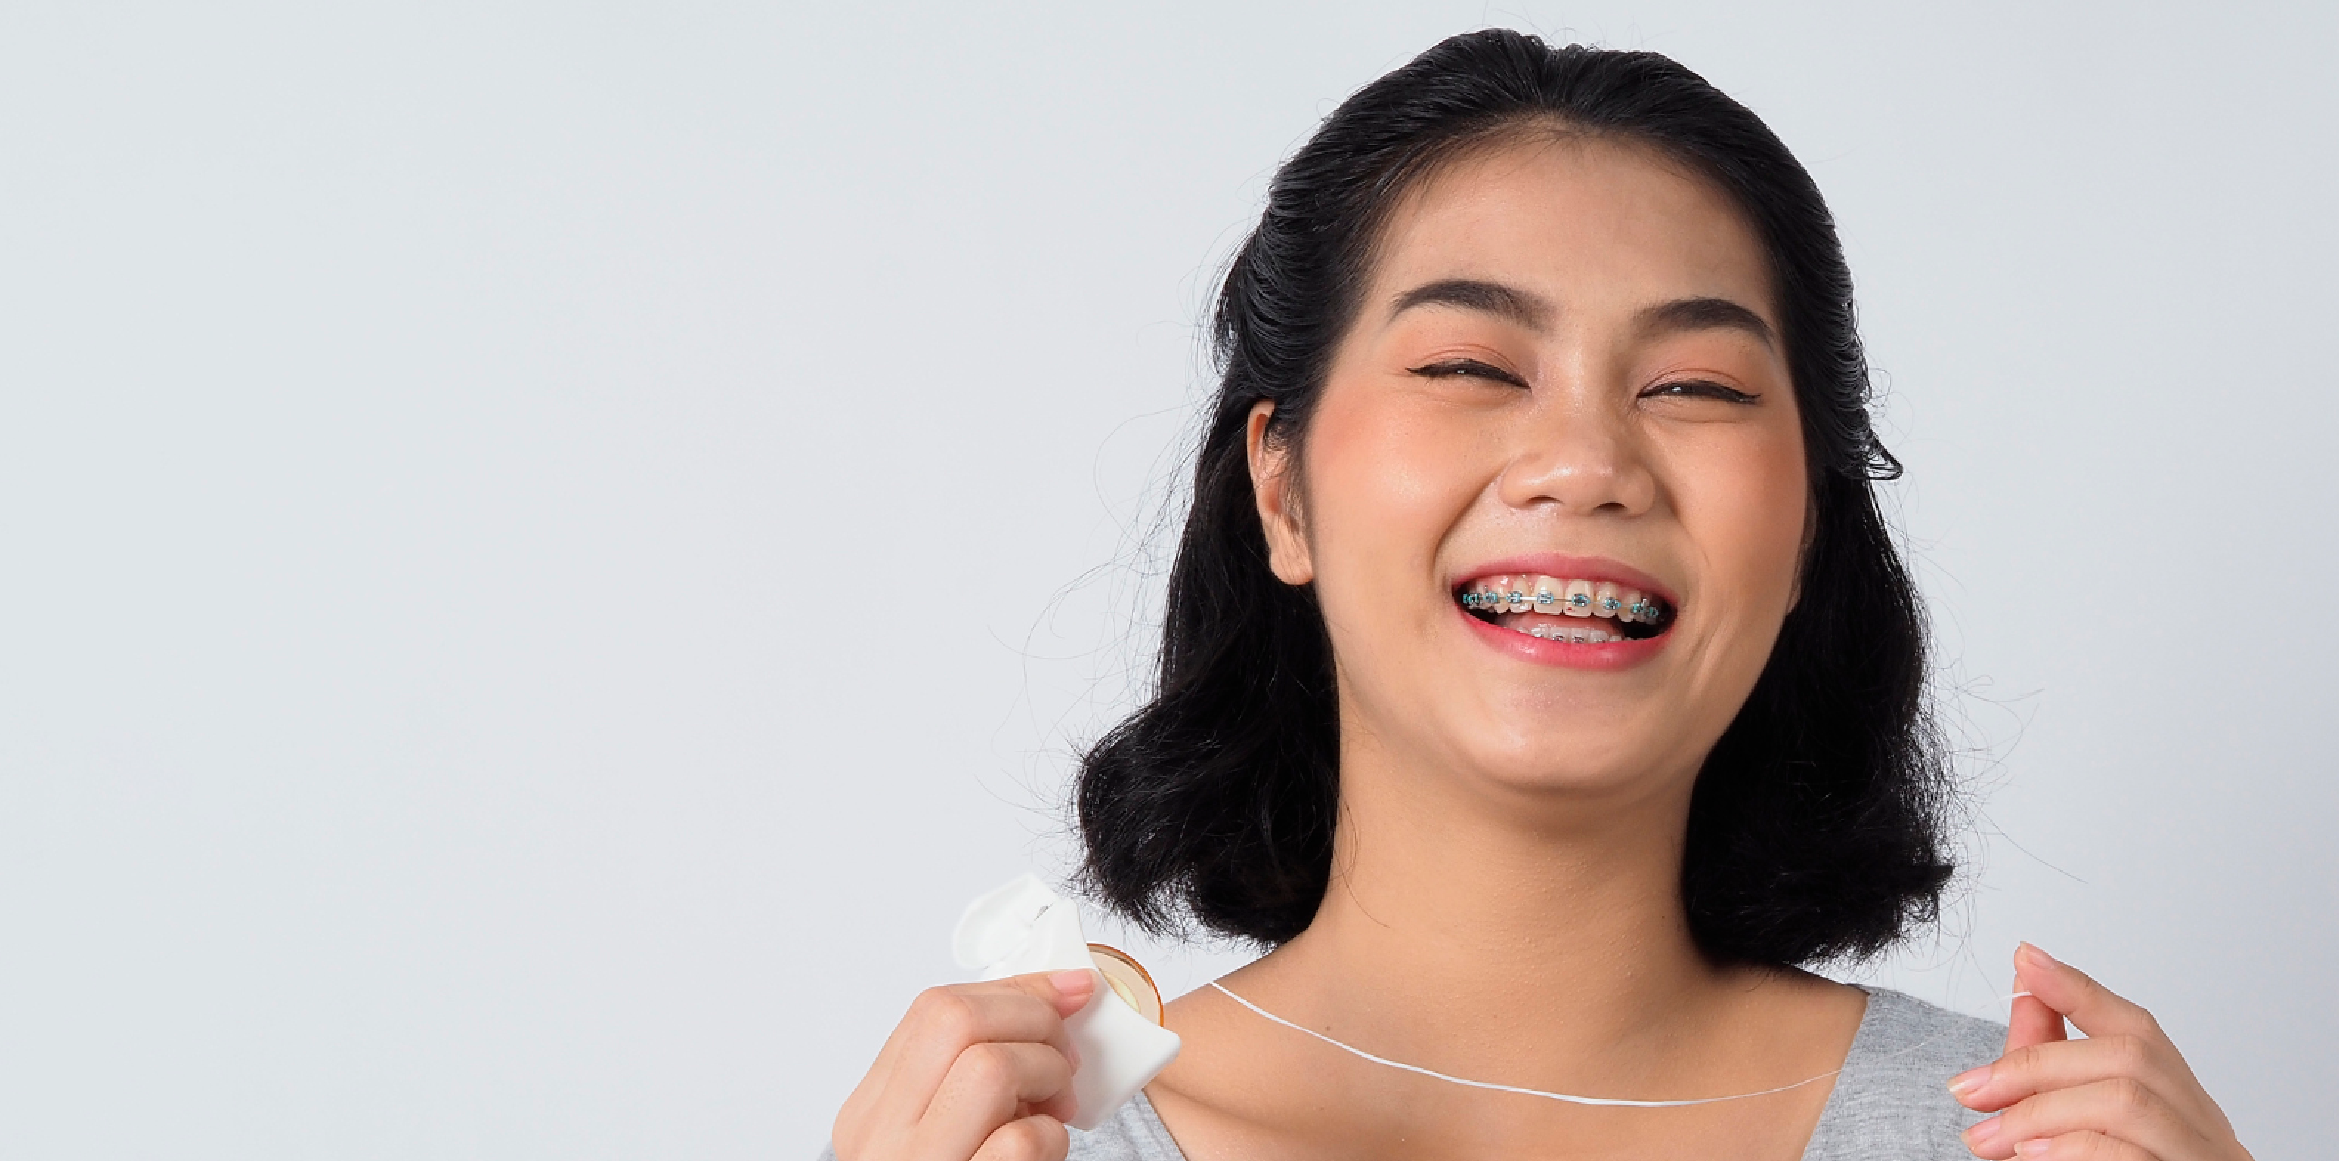
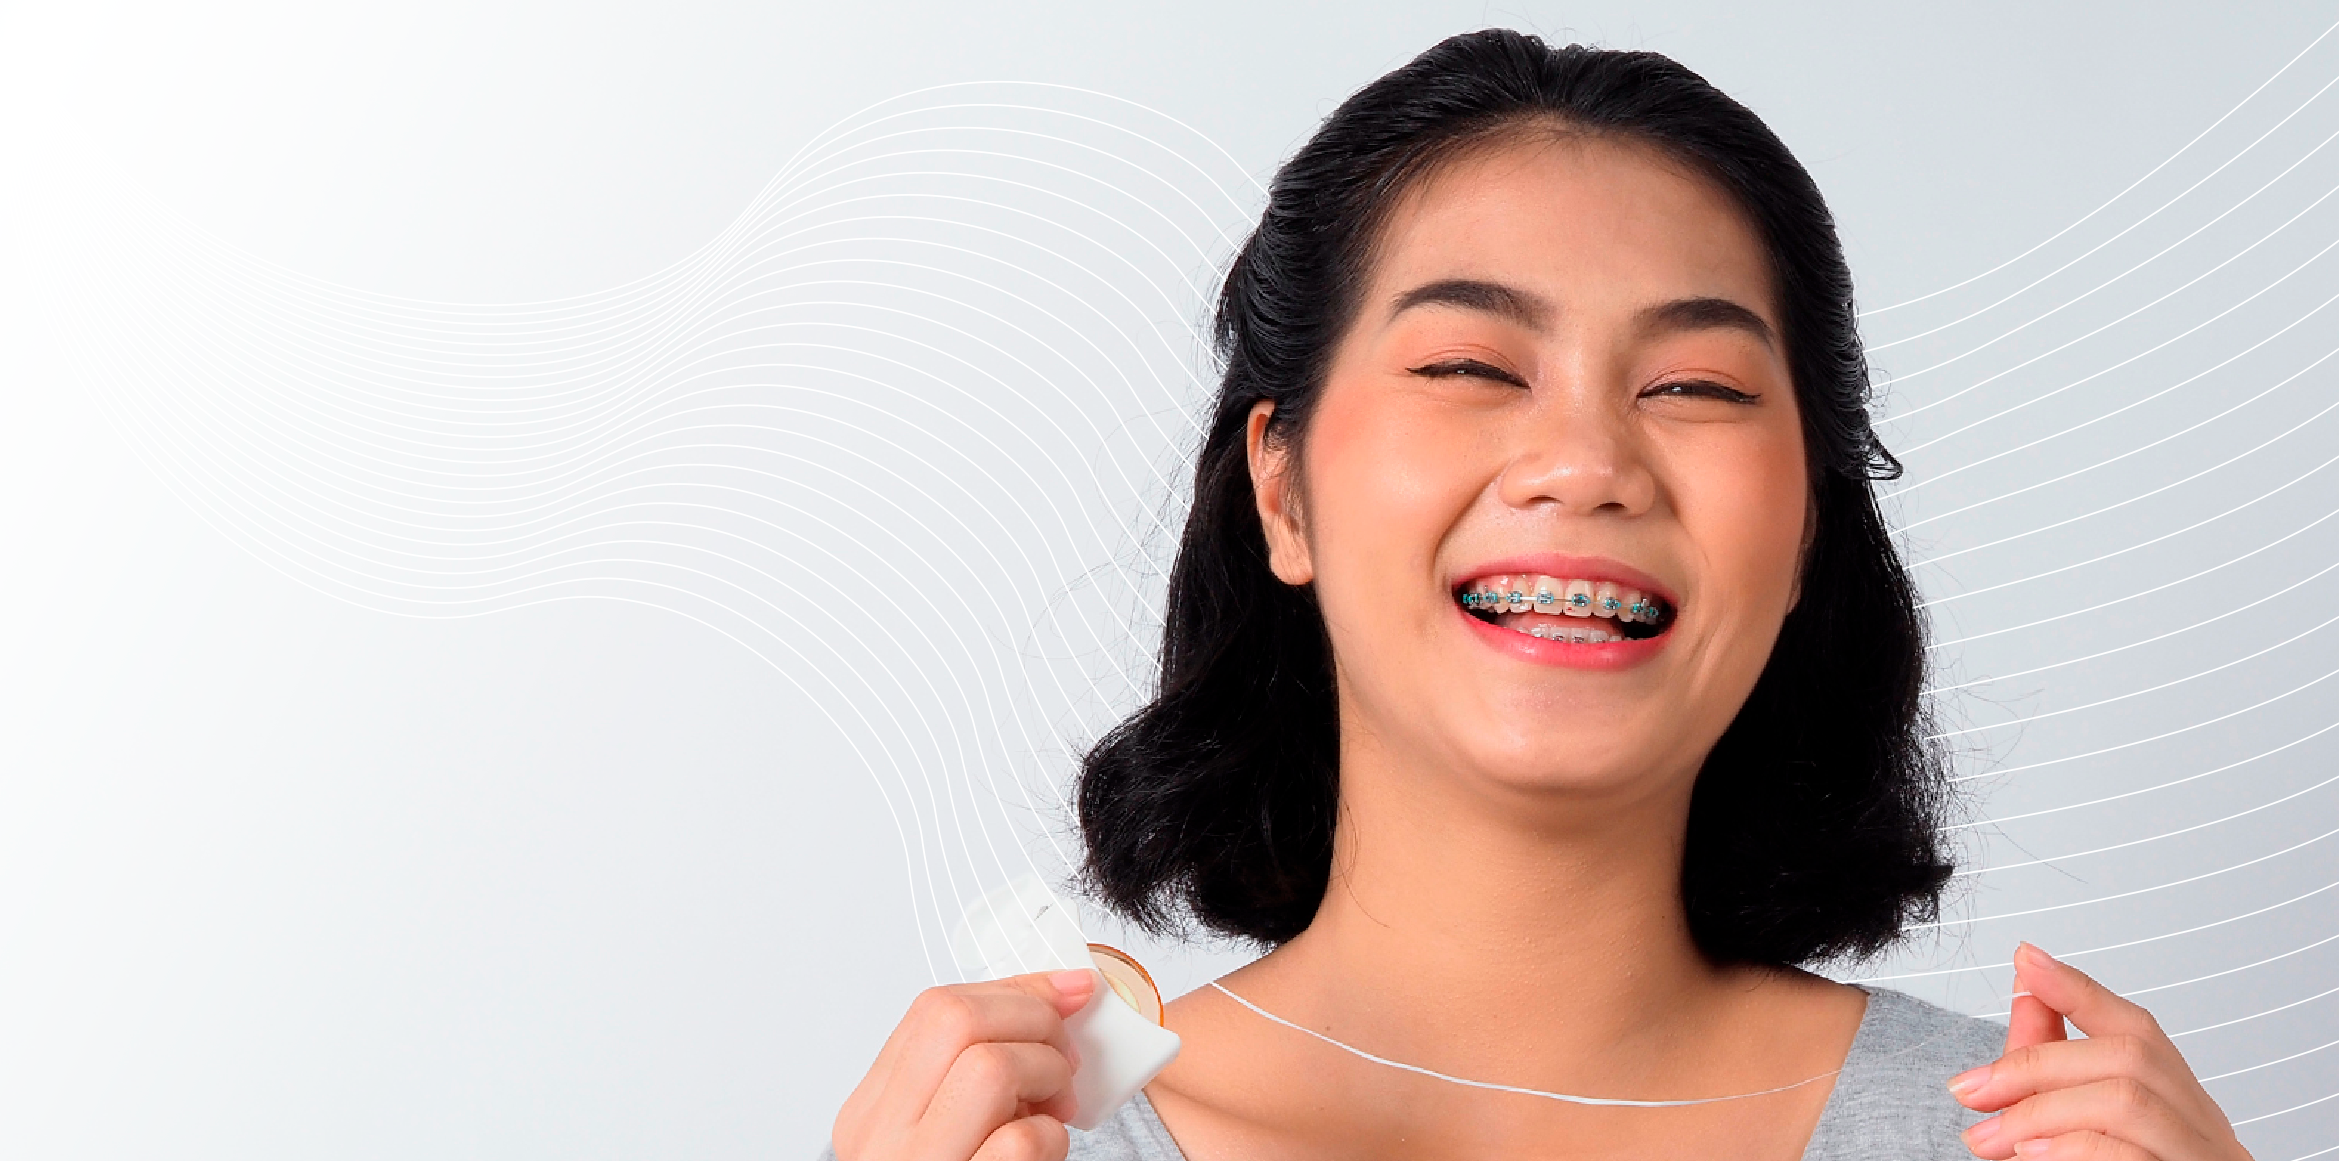
atualizacao

diff --git a/src/app/globals.css b/src/app/globals.css
@@ -5,15 +5,17 @@
 *{
   font-family:BreeGRK-Regular, Bree GRK;
 }
-.background{
-  position: absolute;
-  z-index: -1;
-  width: 100%;
-  height: auto;
-  margin-top: 50px;
+body{
+  background-image: url('/img_background.png');
+  background-repeat: no-repeat;
+  background-size: 130%;
+  
+  
 }
 
+
 .container_head{
+  
   background-image: url("/svg_onda.svg");
   background-repeat: no-repeat;
   background-size: cover;
@@ -520,35 +522,33 @@
 
 
 @media (max-width:440px){
- 
-  .background{
-    
-    position: absolute;
-    z-index: -1;
-    max-width: 480px;
-    height:auto;
-    margin-top: 1rem;
+
+  body{
+    background-image: url('/img_background.png');
+    background-repeat: no-repeat;
+    background-size: 130%;
+    position: relative;
     
     
     
   }
+ 
+
   .container_head{
+    background-image: none;
+    justify-content: flex-start;
+    padding-left: 2rem;
    
-    background-image: url("/svg_onda.svg");
-    background-repeat: no-repeat;
-    background-size: cover;
-    display:flex;
-    
-    width: 100%;
+   
     
     
    
   }
  
   .img_logo{
-    width: 40%;
-    padding-top: .4rem;
-    padding-bottom: .4rem;
+    width:60%;
+    padding-top: 1rem;
+    padding-bottom: 1rem;
     
 
   }

diff --git a/src/app/layout.tsx b/src/app/layout.tsx
@@ -29,16 +29,9 @@ export default function RootLayout({
     <html lang="pt-BR">
       
       <body className={inter.className}>
-        <Image
-          src="/img_background.png"
-          width={800}
-          height={400}
-          alt="planodeFundo"
-          className="background"
-          
-          
-
-        />
+        
+       
+        
        
 
         <Cabecalho />
